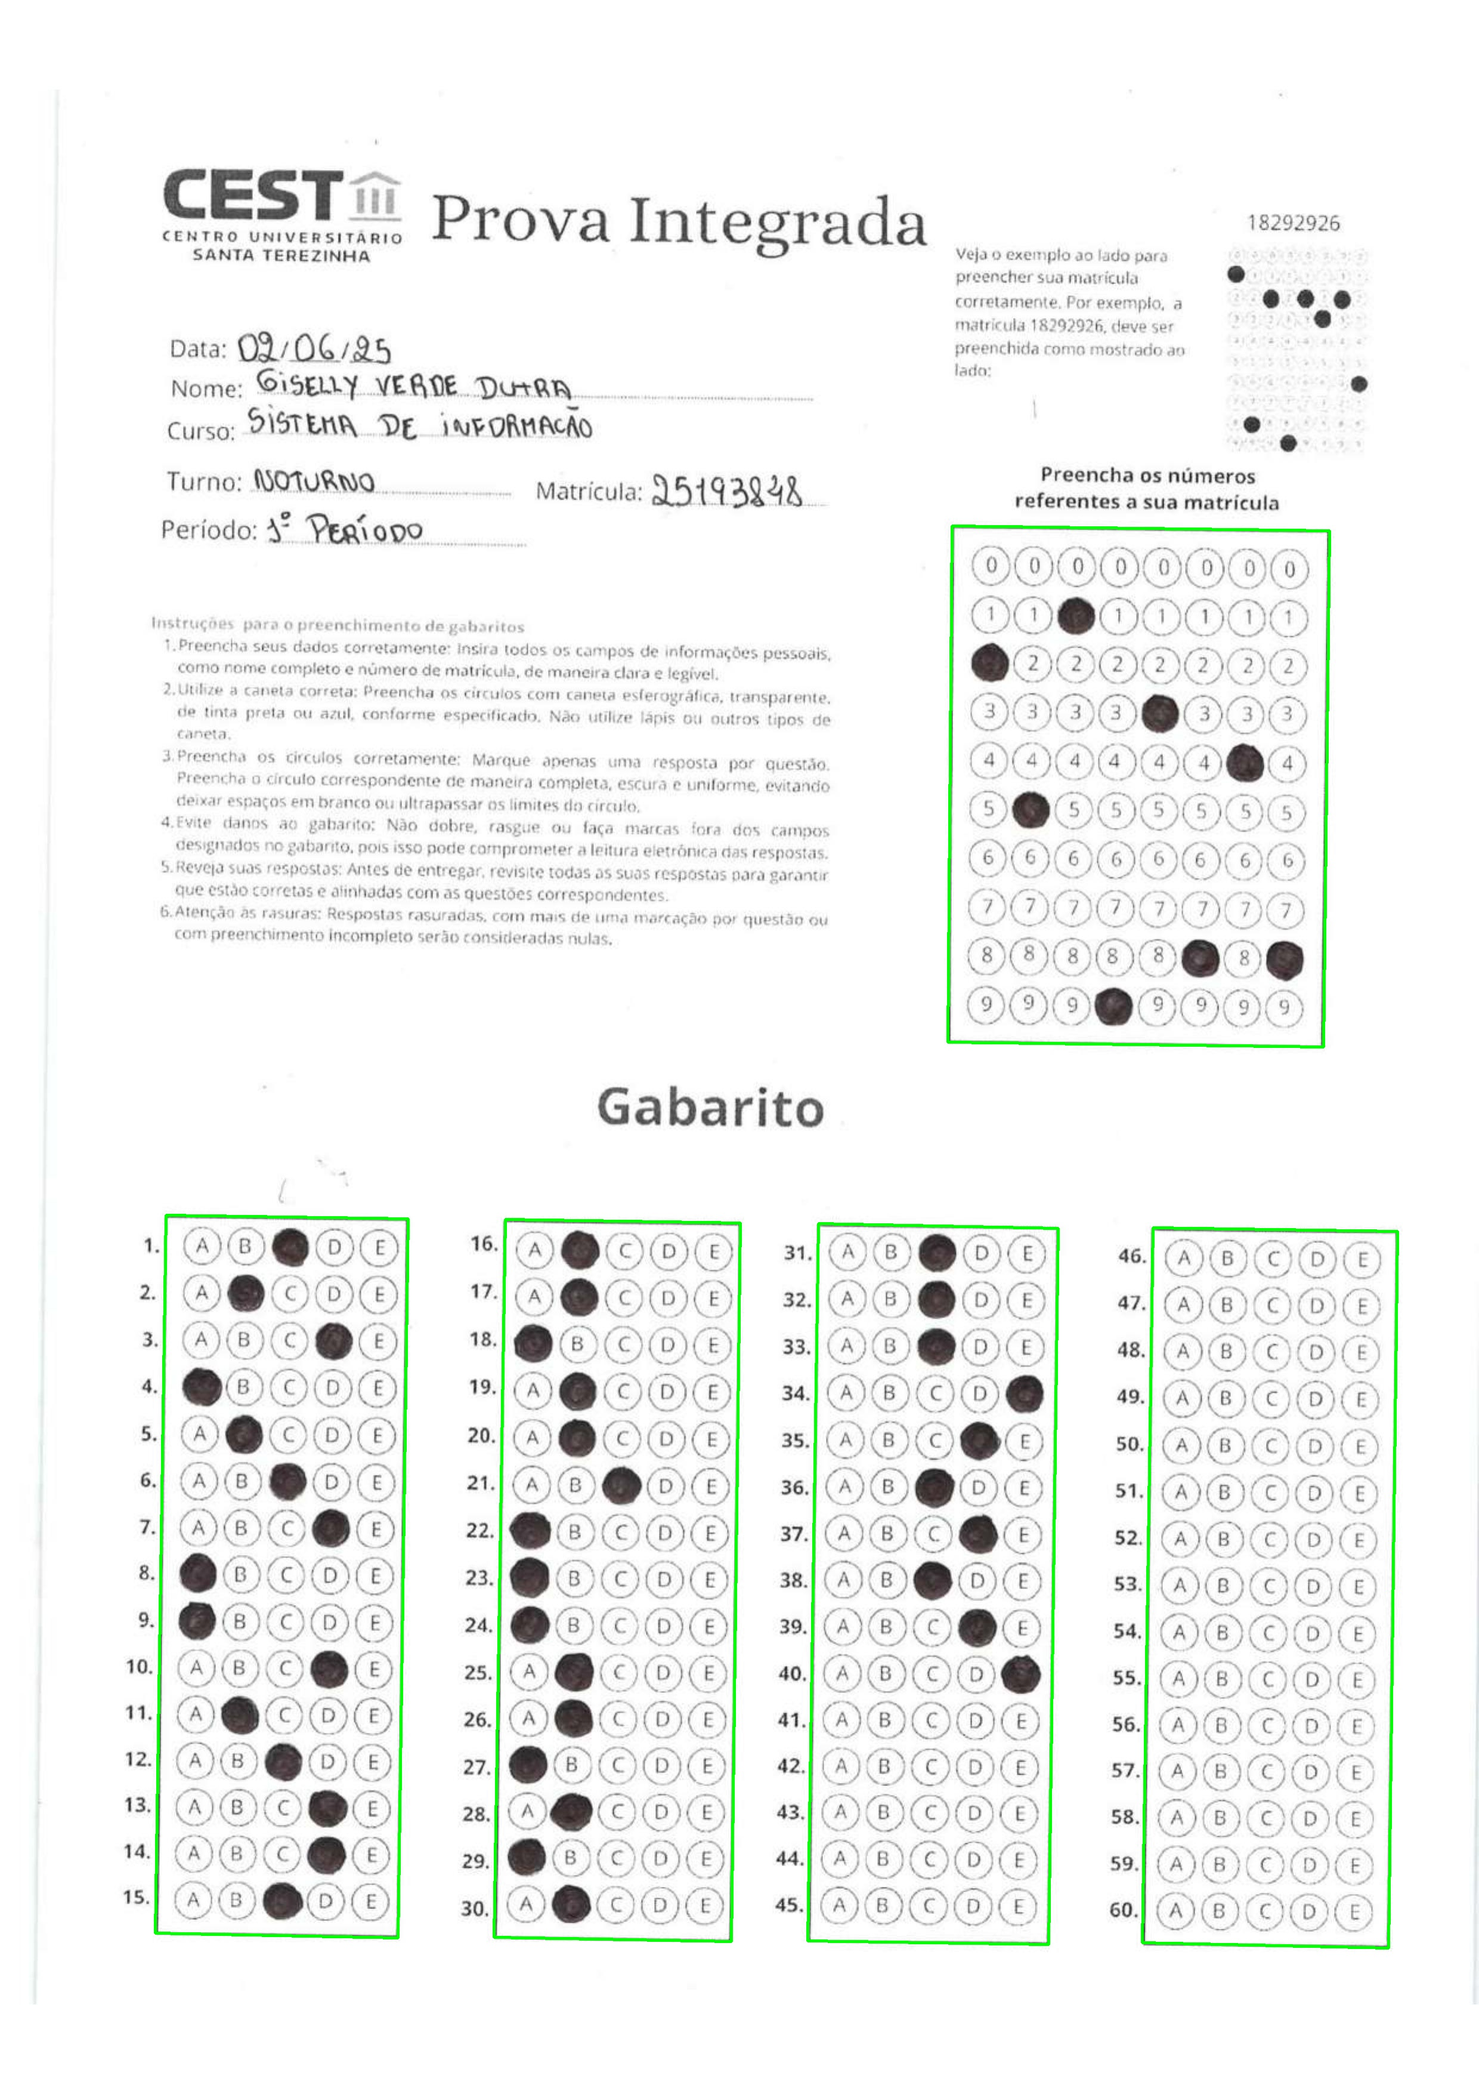
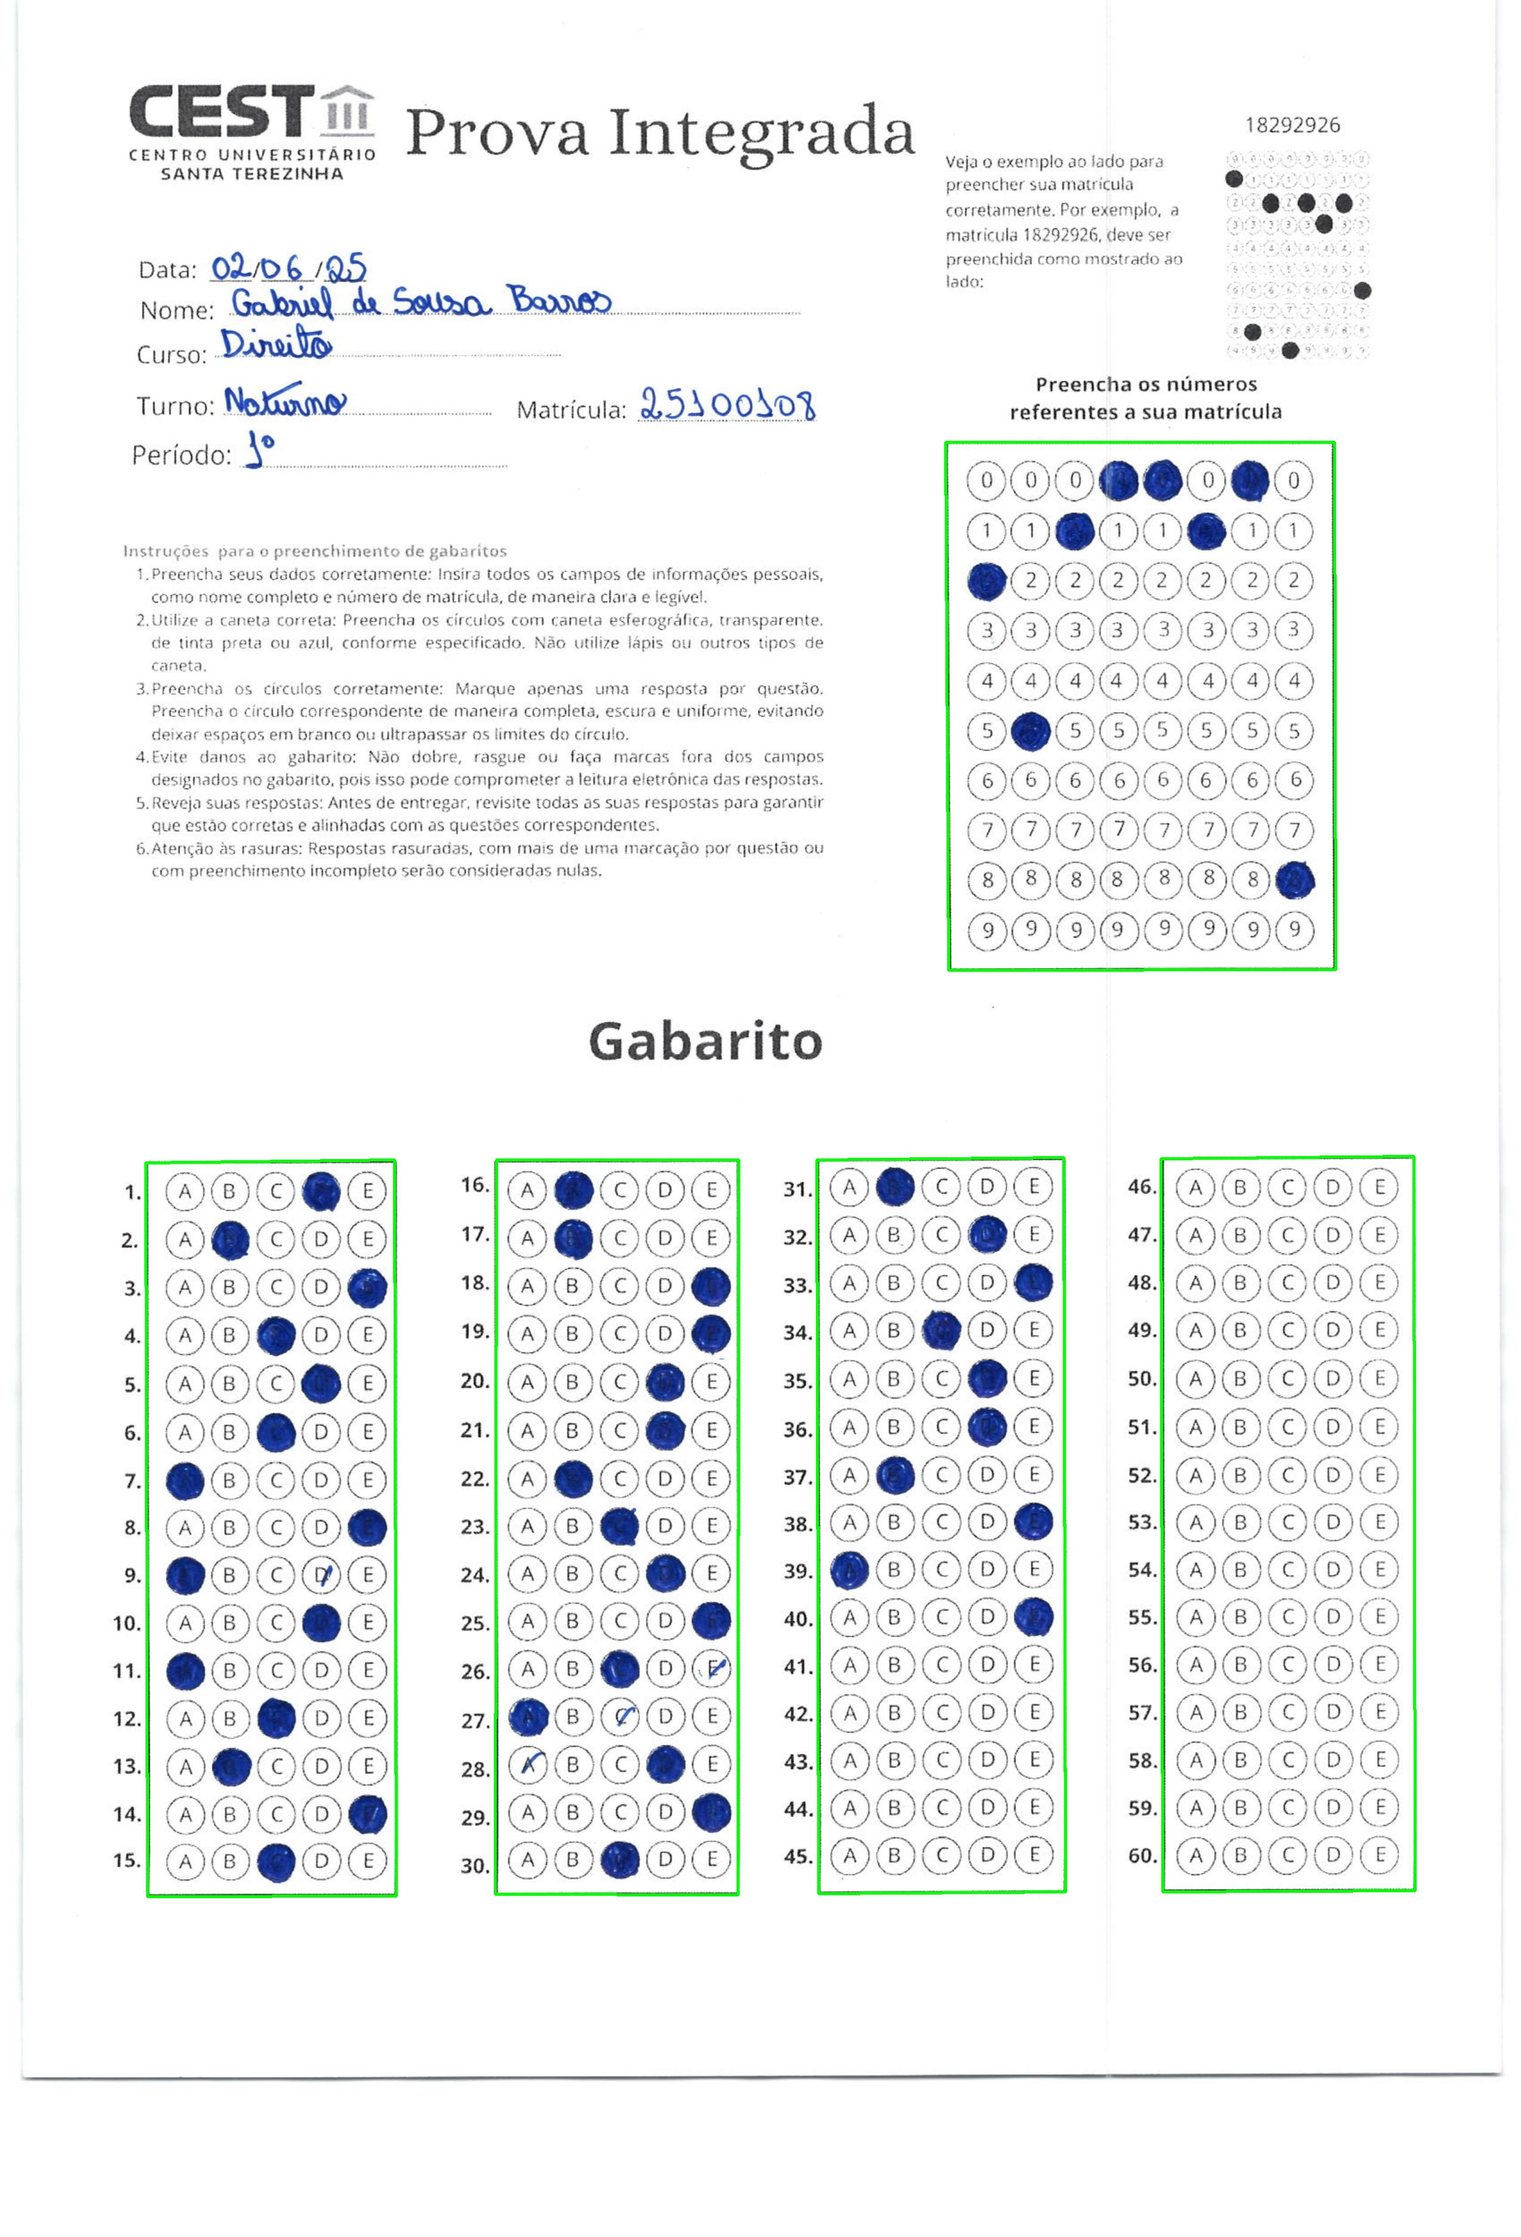
testes com novos gabaritos e ajustes de parametro

diff --git a/códigodoservidorCopia.py b/códigodoservidorCopia.py
@@ -8,87 +8,25 @@ from datetime import datetime
 import sys
 from pathlib import Path
 
-# Diretórios fixos
+
+# Diretórios fixos no disco
 BASE_INPUT_DIR = r"C:\appprointer\app\data\PDF"
 BASE_OUTPUT_DIR = r"C:\appprointer\app\data\Processados"
 
+
+# Cria diretórios se não existirem
 os.makedirs(BASE_INPUT_DIR, exist_ok=True)
 os.makedirs(BASE_OUTPUT_DIR, exist_ok=True)
 
 def sanitize_filename(filename):
     return "".join(c if c.isalnum() or c in [' ', '_', '-'] else "_" for c in filename)
 
-def ordenar_pontos(pontos):
-    if pontos.shape[0] != 4:
-        raise ValueError(f"Esperado 4 pontos, mas recebi {pontos.shape[0]}")
-    pontos = pontos.reshape(4, 2)
-    soma = pontos.sum(axis=1)
-    diff = np.diff(pontos, axis=1)
-    ordenado = np.zeros((4, 2), dtype="float32")
-    ordenado[0] = pontos[np.argmin(soma)]  # Top-left
-    ordenado[1] = pontos[np.argmin(diff)]  # Top-right
-    ordenado[2] = pontos[np.argmax(soma)]  # Bottom-right
-    ordenado[3] = pontos[np.argmax(diff)]  # Bottom-left
-    return ordenado
-
-def detect_marked_choice_vector(thresh_question, options=5):
-    height, width = thresh_question.shape
-    new_width = width - (width % options)
-    thresh_question = thresh_question[:, :new_width]
-    columns = np.hsplit(thresh_question, options)
-    pixel_counts = [cv2.countNonZero(col) for col in columns]
-
-    total_pixels = sum(pixel_counts)
-    
-    # Se o total de pixels for muito baixo, considera questão totalmente em branco
-    if total_pixels < 800:
-        return [0] * options
-
-    max_count = max(pixel_counts)
-    threshold_relative = max_count * 0.5
-    threshold_absolute = 300  # Limite mínimo absoluto por alternativa
-
-    vector = []
-    for count in pixel_counts:
-        if count >= threshold_relative and count >= threshold_absolute:
-            vector.append(1)
-        else:
-            vector.append(0)
-
-    # Se houver mais de duas alternativas marcadas, considera inválida (zera tudo)
-    if vector.count(1) > 2:
-        return [0] * options
-
-    return vector
-
-def detect_marked_matricula(thresh_matricula):
-    height, width = thresh_matricula.shape
-    num_digits = 8
-    new_width = width - (width % num_digits)
-    thresh_matricula = thresh_matricula[:, :new_width]
-    columns = np.hsplit(thresh_matricula, num_digits)
-    matricula_digits = []
-    for col in columns:
-        col_height = col.shape[0]
-        adjusted_height = col_height - (col_height % 10)
-        col = col[:adjusted_height, :]
-        digit_rows = np.vsplit(col, 10)
-        pixel_counts = [cv2.countNonZero(row) for row in digit_rows]
-        valid_pixel_counts = [count for count in pixel_counts if count > 1500]
-        max_count = max(valid_pixel_counts) if valid_pixel_counts else 0
-        threshold = max_count * 0.7
-        marked_indices = [i for i, count in enumerate(pixel_counts) if count >= threshold]
-        if len(marked_indices) == 1:
-            matricula_digits.append(str(marked_indices[0]))
-        else:
-            matricula_digits.append(None)
-    return matricula_digits
-
 def process_pdf(input_pdf_path, upload_id=1):
     pdf_name_raw = os.path.splitext(os.path.basename(input_pdf_path))[0]
     pdf_name = sanitize_filename(pdf_name_raw)
     timestamp = datetime.now().strftime("%Y%m%d_%H%M%S")
     session_id = f"{pdf_name}_{timestamp}"
+
     base_dir = os.path.join(BASE_OUTPUT_DIR, session_id)
     jpeg_dir = os.path.join(base_dir, "jpeg")
     cutouts_dir = os.path.join(base_dir, "cutouts")
@@ -98,51 +36,89 @@ def process_pdf(input_pdf_path, upload_id=1):
     for d in [jpeg_dir, cutouts_dir, json_dir, matricula_dir]:
         os.makedirs(d, exist_ok=True)
 
+    #print(f"Convertendo PDF em imagens: {input_pdf_path}")
     pages = convert_from_path(input_pdf_path, dpi=300)
+
     resultado = []
 
     for page_idx, page in enumerate(pages):
         jpeg_path = os.path.join(jpeg_dir, f"page_{page_idx + 1}.jpeg")
         page.save(jpeg_path, "JPEG")
+
         img = cv2.imread(jpeg_path)
         if img is None:
+            print(f"Erro: Não foi possível ler a imagem salva em {jpeg_path}")
             continue
 
+            top, second = candidates[0], candidates[1]
         gray = cv2.cvtColor(img, cv2.COLOR_BGR2GRAY)
         blur = cv2.GaussianBlur(gray, (5, 5), 0)
         thresh = cv2.adaptiveThreshold(blur, 255, cv2.ADAPTIVE_THRESH_GAUSSIAN_C, cv2.THRESH_BINARY_INV, 11, 2)
-        kernel = cv2.getStructuringElement(cv2.MORPH_RECT, (3, 3))
-        morph = cv2.morphologyEx(thresh, cv2.MORPH_CLOSE, kernel)
-        canny = cv2.Canny(morph, 50, 150)
-        contours, _ = cv2.findContours(canny, cv2.RETR_EXTERNAL, cv2.CHAIN_APPROX_SIMPLE)
-        rectangles = []
+        kernel = cv2.getStructuringElement(cv2.MORPH_RECT, (3, 3)) # Em casos de não identificação das colunas mudar o kernel para operações morfológicas
+        morph = cv2.morphologyEx(thresh, cv2.MORPH_CLOSE, kernel) # Aplica fechamento morfológico
+        canny = cv2.Canny(morph, 70, 130) # Ajuste os valores de limiar conforme necessário
 
+        contours, _ = cv2.findContours(canny, cv2.RETR_EXTERNAL, cv2.CHAIN_APPROX_SIMPLE) # Encontra os contornos na imagem
+        rectangles = []
         for cnt in contours:
-            area = cv2.contourArea(cnt)
+            area = cv2.contourArea(cnt) # Calcula a área do contorno
             if area > 2000:
-                peri = cv2.arcLength(cnt, True)
+                peri = cv2.arcLength(cnt, True) 
                 approx = cv2.approxPolyDP(cnt, 0.02 * peri, True)
                 if len(approx) == 4:
                     rectangles.append(approx)
+        
+                # Salva imagem com retângulos detectados
+                img_rects = img.copy()
+                cv2.drawContours(img_rects, rectangles, -1, (0, 255, 0), 3)
+                rects_img_path = os.path.join("C:/Users/estagiario.inovacao/Desktop/leitor-de-gabarito-OMR/retangulos_detect", f"page_{page_idx + 1}_rectangles.jpeg")
+                cv2.imwrite(rects_img_path, img_rects)
+       
+        def ordenar_pontos(pontos):
+            pontos = pontos.reshape(4, 2)
+            soma = pontos.sum(axis=1)
+            diff = np.diff(pontos, axis=1)
+            ordenado = np.zeros((4, 2), dtype="float32")
+            ordenado[0] = pontos[np.argmin(soma)] # Ponto superior esquerdo
+            ordenado[1] = pontos[np.argmin(diff)] # Ponto superior direito
+            ordenado[2] = pontos[np.argmax(soma)] # Ponto inferior direito
+            ordenado[3] = pontos[np.argmax(diff)] # Ponto inferior esquerdo
+                        
+            return ordenado
 
-        recortes_info = [{"x": cv2.boundingRect(r)[0], "y": cv2.boundingRect(r)[1], "w": cv2.boundingRect(r)[2], "h": cv2.boundingRect(r)[3], "rect": r} for r in rectangles]
+        recortes_info = []
+        for rect in rectangles:
+            x, y, w, h = cv2.boundingRect(rect)
+            recortes_info.append({"x": x, "y": y, "w": w, "h": h, "rect": rect})
+
         recortes_info = sorted(recortes_info, key=lambda r: (r["y"], -r["w"]))
-
         if not recortes_info:
+            #print(f"Página {page_idx + 1}: Nenhum retângulo detectado.")
             continue
 
         matricula_info = max(recortes_info, key=lambda r: r["w"] * r["h"])
-        cutout_infos = sorted([r for r in recortes_info if r != matricula_info], key=lambda r: r["x"])
-        cutout_paths = []
 
+
+        cutout_infos = [r for r in recortes_info if r != matricula_info]
+        cutout_infos = sorted(cutout_infos, key=lambda r: r["x"])
+
+        cutout_paths = []
         for idx, info in enumerate(cutout_infos):
-            if info["rect"].shape[0] != 4:
-                continue
             pts = ordenar_pontos(info["rect"])
             (tl, tr, br, bl) = pts
-            maxWidth = int(max(np.linalg.norm(br - bl), np.linalg.norm(tr - tl)))
-            maxHeight = int(max(np.linalg.norm(tr - br), np.linalg.norm(tl - bl)))
-            destino = np.array([[0, 0], [maxWidth - 1, 0], [maxWidth - 1, maxHeight - 1], [0, maxHeight - 1]], dtype="float32")
+            widthA = np.linalg.norm(br - bl)
+            widthB = np.linalg.norm(tr - tl)
+            maxWidth = int(max(widthA, widthB))
+            heightA = np.linalg.norm(tr - br)
+            heightB = np.linalg.norm(tl - bl)
+            maxHeight = int(max(heightA, heightB))
+
+            destino = np.array([
+                [0, 0],
+                [maxWidth - 1, 0],
+                [maxWidth - 1, maxHeight - 1],
+                [0, maxHeight - 1]], dtype="float32")
+
             M = cv2.getPerspectiveTransform(pts, destino)
             warp = cv2.warpPerspective(img, M, (maxWidth, maxHeight))
             gray = cv2.cvtColor(warp, cv2.COLOR_BGR2GRAY)
@@ -162,11 +138,37 @@ def process_pdf(input_pdf_path, upload_id=1):
         options = 5
         cols = 4
         questions_per_col = total_questions // cols
-        answers = []
 
+        #funcao para detectar o vetor de escolhas marcadas
+        def detect_marked_choice_vector(thresh_question):
+            height, width = thresh_question.shape
+            new_width = width - (width % options)
+            thresh_question = thresh_question[:, :new_width]
+            columns = np.hsplit(thresh_question, options)
+            pixel_counts = [cv2.countNonZero(col) for col in columns]
+            
+            print(pixel_counts)
+            
+            total_pixels = sum(pixel_counts)
+            # estrutura de decisão para evitar processamento desnecessário
+            if total_pixels < 800: # valor padrao 800 
+                return [0] * options
+
+            max_count = max(pixel_counts)
+            threshold = max_count * 0.5 # 50% melhor valor, menos que isso gera ruído
+            vector = [1 if count >= threshold else 0 for count in pixel_counts]
+
+            if vector.count(1) > 2:
+                return [0] * options
+
+            return vector
+
+
+        answers = []
         for col_idx, path in enumerate(cutout_paths):
             img_col = cv2.imread(path, cv2.IMREAD_GRAYSCALE)
             if img_col is None:
+                print(f"Erro ao ler corte {path}")
                 continue
             h, w = img_col.shape
             box_height = h // questions_per_col
@@ -178,12 +180,50 @@ def process_pdf(input_pdf_path, upload_id=1):
                 question_number = col_idx * questions_per_col + i + 1
                 answers.append((question_number, vector))
 
+        # funcao para detectar a matrícula
+        def detect_marked_matricula(thresh_matricula):
+            height, width = thresh_matricula.shape
+            num_digits = 8
+            new_width = width - (width % num_digits)
+            thresh_matricula = thresh_matricula[:, :new_width]
+            columns = np.hsplit(thresh_matricula, num_digits)
+            matricula_digits = []
+            
+            for col in columns:
+                col_height = col.shape[0]
+                adjusted_height = col_height - (col_height % 10)
+                col = col[:adjusted_height, :]
+                digit_rows = np.vsplit(col, 10)
+                pixel_counts = [cv2.countNonZero(row) for row in digit_rows]
+                
+                # Filtra os valores que são maiores que 1500
+                valid_pixel_counts = [count for count in pixel_counts if count > 1500]
+                
+                # Se houver valores válidos, seleciona o máximo
+                if valid_pixel_counts:
+                    max_count = max(valid_pixel_counts)
+                else:
+                    max_count = 0  # ou outro valor de fallback se nenhum valor válido for encontrado
+                
+                threshold = max_count * 0.7  # 70% do valor máximo como limite
+                marked_indices = [i for i, count in enumerate(pixel_counts) if count >= threshold]
+                
+                if len(marked_indices) == 1:
+                    matricula_digits.append(str(marked_indices[0]))
+                else:
+                    matricula_digits.append(None)
+            
+            return matricula_digits
+
         matricula_digits = detect_marked_matricula(matricula_thresh)
         matricula_str = "".join(d if d else "_" for d in matricula_digits)
+
         agrupamento_colunas = {}
         for (num, vec) in answers:
             coluna_index = (num - 1) // questions_per_col + 1
-            agrupamento_colunas.setdefault(coluna_index, []).append({
+            if coluna_index not in agrupamento_colunas:
+                agrupamento_colunas[coluna_index] = []
+            agrupamento_colunas[coluna_index].append({
                 "questao": num,
                 "resposta_vetorial": vec
             })
@@ -209,16 +249,25 @@ def process_pdf(input_pdf_path, upload_id=1):
     result_csv_path = os.path.join(json_dir, "graded_result.csv")
     with open(result_csv_path, "w", encoding="utf-8") as f_csv:
         f_csv.write("Id_Gabarito;Arquivo;MATRICULA;QUESTAO;A;B;C;D;E\n")
+        print("Id_Gabarito;Arquivo;MATRICULA;QUESTAO;A;B;C;D;E")
         for pagina_info in resultado:
             pag = pagina_info["pagina"]
             for resp in pagina_info["respostas"]:
-                linha_csv = f"{upload_id};{pdf_name}_page_{pag};{pagina_info['matricula']};{resp['questao']};" + ";".join(str(x) for x in resp['resposta_vetorial'])
+                linha_csv = f"{gabarito_id};{nome_arquivo}_page_{pag};{pagina_info['matricula']};{resp['questao']};" + ";".join(str(x) for x in resp['resposta_vetorial'])
                 f_csv.write(linha_csv + "\n")
+                # print(linha_csv)
+
+    #print(f"✔ Processamento concluído! Resultados salvos em: {json_dir}")
 
 if __name__ == "__main__":
     upload_counter = 1
     gabarito_id = sys.argv[1]
     nome_arquivo = Path(sys.argv[2]).stem
+    #gabarito_id = 0
+    #print(gabarito_id)
+    #print(nome_arquivo)
+
+
     for file in os.listdir(BASE_INPUT_DIR):
         if file.lower().endswith(".pdf"):
             full_path = os.path.join(BASE_INPUT_DIR, file)

diff --git a/códigodoservidor.py b/códigodoservidor.py
@@ -54,7 +54,7 @@ def process_pdf(input_pdf_path, upload_id=1):
         gray = cv2.cvtColor(img, cv2.COLOR_BGR2GRAY)
         blur = cv2.GaussianBlur(gray, (5, 5), 0)
         thresh = cv2.adaptiveThreshold(blur, 255, cv2.ADAPTIVE_THRESH_GAUSSIAN_C, cv2.THRESH_BINARY_INV, 11, 2)
-        kernel = cv2.getStructuringElement(cv2.MORPH_RECT, (3, 3)) # Em casos de não identificação das colunas mudar o kernel para operações morfológicas
+        kernel = cv2.getStructuringElement(cv2.MORPH_RECT, (3, 2)) # Em casos de não identificação das colunas mudar o kernel para operações morfológicas
         morph = cv2.morphologyEx(thresh, cv2.MORPH_CLOSE, kernel) # Aplica fechamento morfológico
         canny = cv2.Canny(morph, 50, 150) # Ajuste os valores de limiar conforme necessário
 
